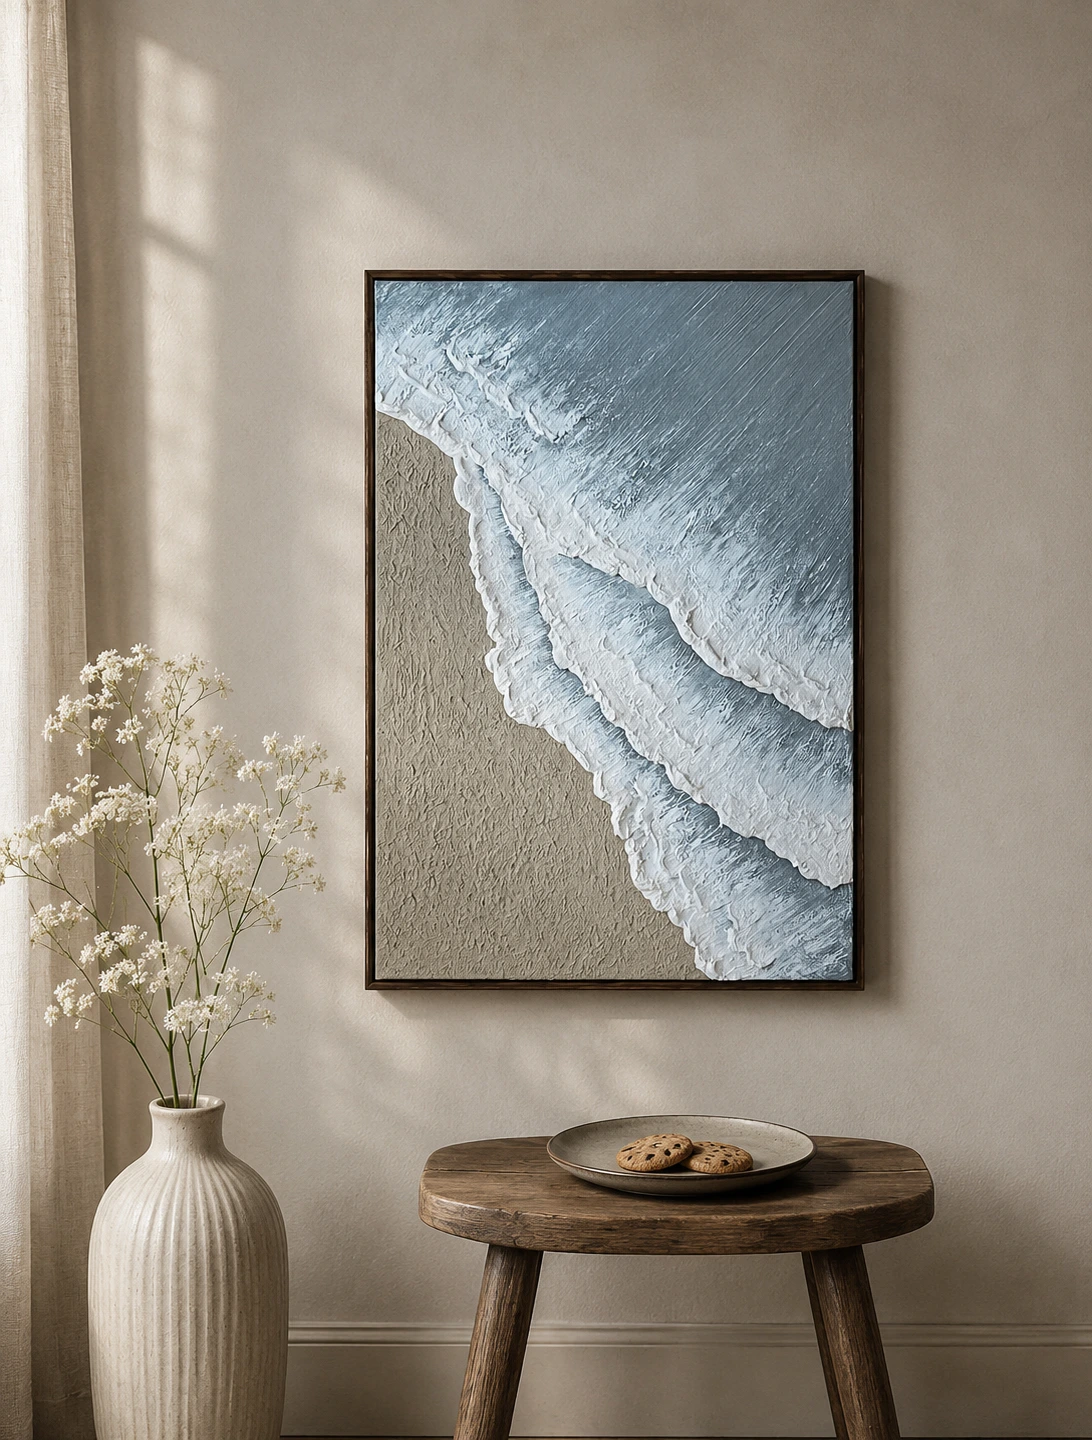
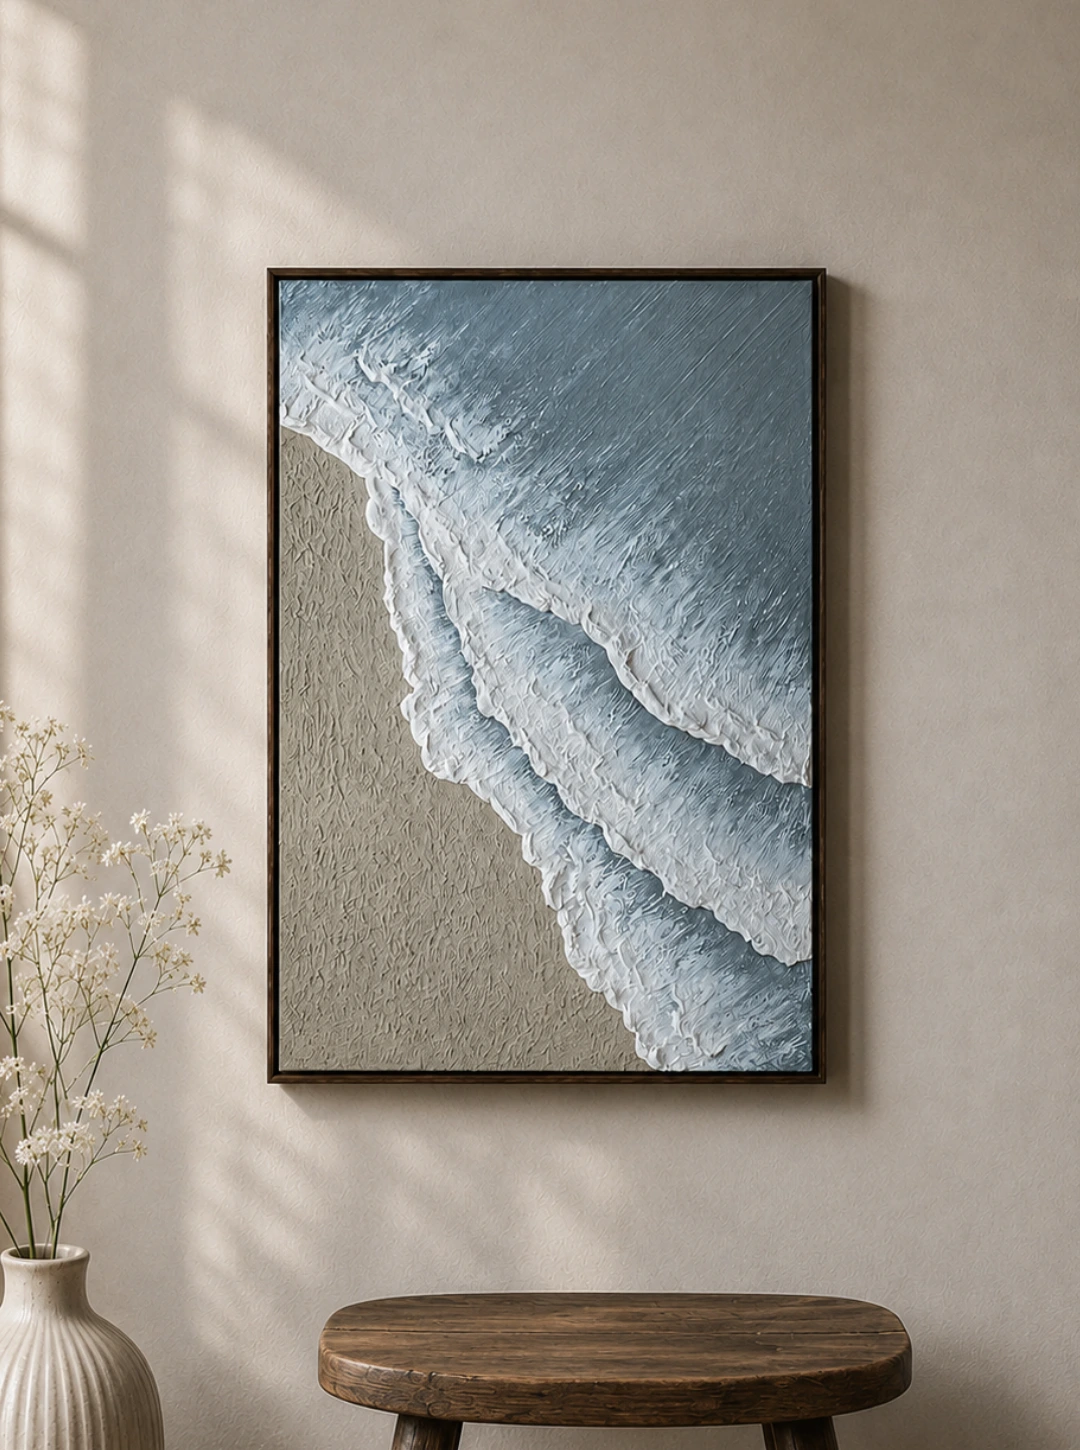
Commit Kekse

diff --git a/src/components/Intro.tsx b/src/components/Intro.tsx
@@ -49,7 +49,7 @@ export default function Intro() {
         </motion.div>
 
         {/* Right Image Group */}
-        <div className="w-full md:w-1/2 relative flex justify-end">
+        <div className="w-full md:w-1/2 relative flex justify-center md:justify-start items-end md:items-center pt-10 md:pt-0">
           {/* Main Image with Mask */}
           <motion.div 
             className="w-full md:w-4/5 aspect-[4/5] overflow-hidden bg-creme"
@@ -74,9 +74,13 @@ export default function Intro() {
           {/* Overlapping Small Image with Mask */}
           <motion.div 
             style={{ y: y2 }}
-            className="absolute -bottom-[20px] left-1/2 -translate-x-1/2 md:bottom-[-20px] md:left-auto md:translate-x-0 md:-left-16 w-[34%] md:w-3/5 aspect-square shadow-2xl overflow-hidden z-10"
+            className="absolute -bottom-[5px] left-1/2 -translate-x-1/2 md:bottom-[-12px] md:left-0 md:translate-y-0 md:-translate-x-[18%] w-[40%] md:w-[42%] aspect-square shadow-2xl overflow-hidden z-0 md:z-10"
           >
             <motion.img
+              initial={{ opacity: 0 }}
+              whileInView={{ opacity: 1 }}
+              viewport={{ once: true, amount: 0.4 }}
+              transition={{ duration: 1.1, ease: "easeOut" }}
               style={{ scale: 1.1 }}
               src={smallImg}
               alt="Detail Struktur"

diff --git a/src/components/About.tsx b/src/components/About.tsx
@@ -55,7 +55,7 @@ export default function About() {
           <p className="text-gray-500 leading-relaxed mb-16 text-lg md:text-xl text-center font-light max-w-2xl mx-auto">
             Ich bin Amelie, eine Künstlerin aus Elmshorn. 
             Durch mein Interior Design Studium habe ich gemerkt, wie sehr Oberflächen verändern, wie wir uns in einem Raum fühlen. 
-            Deshalb stecken in jedem meiner Stücke viel Detailarbeit und echtes Handwerk.
+            Deshalb stecken in jeder meiner Leinwände viel Detailarbeit und echtes Handwerk.
           </p>
         </motion.div>
 